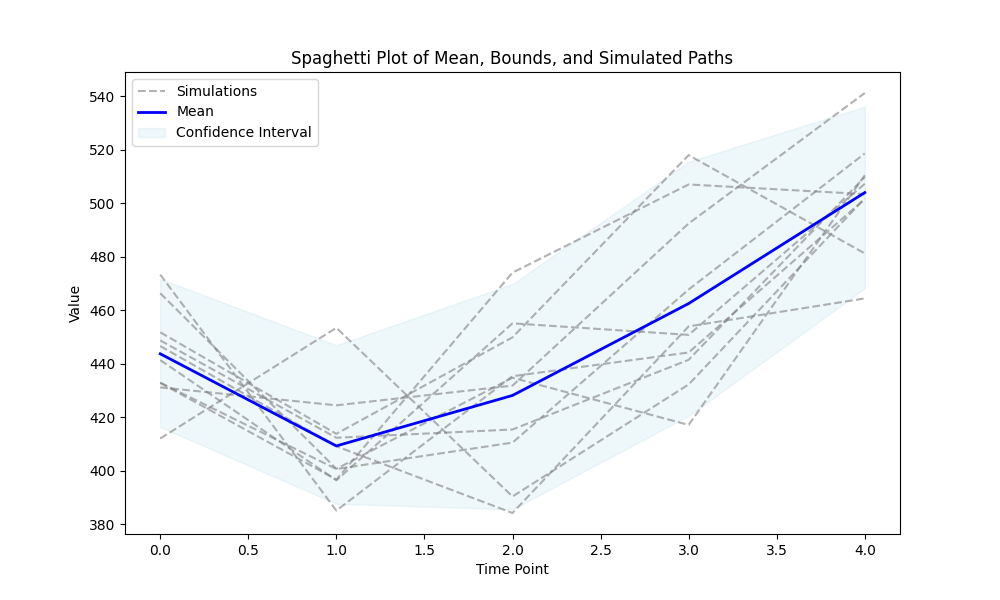
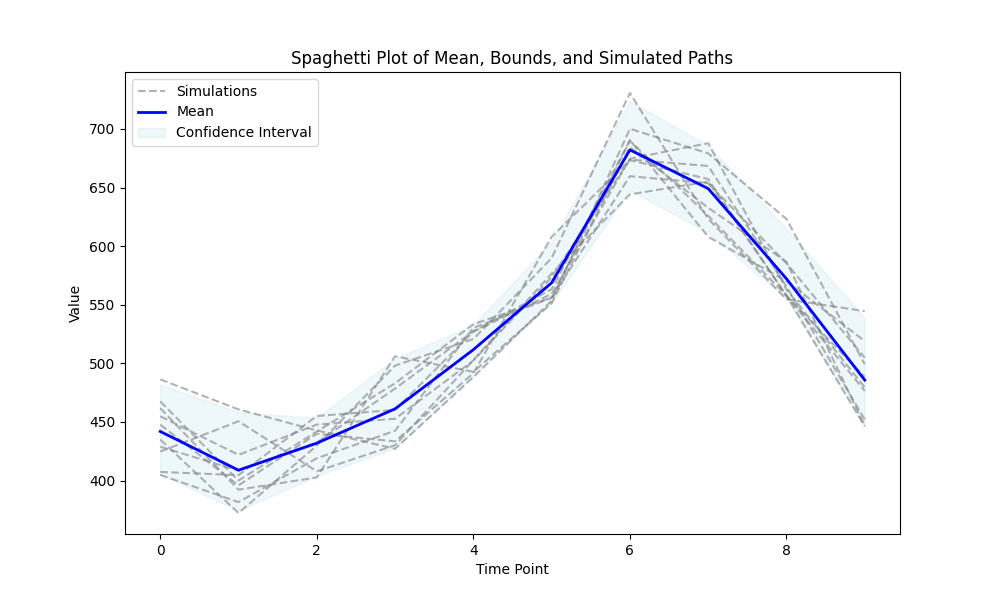
fix code

diff --git a/_posts/2024-11-03-scenario-simulations-techtonique.md b/_posts/2024-11-03-scenario-simulations-techtonique.md
@@ -33,7 +33,7 @@ n_hidden_features=5,
 lags=25,
 type_pi='scp2-kde',
 replications=10,
-h=5)
+h=10)
 print(f"Elapsed: {time() - start} seconds \n")
 
 print(res_get_forecast)
@@ -73,7 +73,7 @@ To finish, here's the **R version**, which relies on [`forecastingapi`](https://
 ```R
 path_to_file <- "/Users/t/Documents/datasets/time_series/univariate/AirPassengers.csv"
 forecastingapi::get_forecast(path_to_file)
-forecastingapi::get_forecast(path_to_file, type_pi='scp2-kde', h=5L, replications=10L)
+forecastingapi::get_forecast(path_to_file, type_pi='scp2-kde', h=10L, replications=10L)
 sims <- forecastingapi::get_forecast(path_to_file, type_pi="scp2-kde", replications=10L)$sims
 matplot(sims, type='l', lwd=2)
 ```
